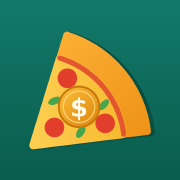
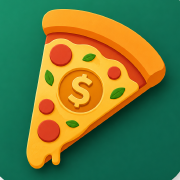
feat(web): usa o icone real do Fatia, rente a borda
- gera 512/192/180 e maskable a partir do PNG enviado
- recorta a moldura branca e o miolo do quadrado arredondado, para o
  icone ficar full-bleed (era a moldura que causava o 'fundo branco
  com icone pequeno' ao instalar no celular)
- remove o SVG desenhado a mao que servia de placeholder
- guarda o arquivo de origem fora de public (nao vai para o deploy)
- sobe o cache do service worker (fatia-v3)

diff --git a/apps/web/public/sw.js b/apps/web/public/sw.js
@@ -1,9 +1,9 @@
 // Service worker minimalista do Painel Financeiro Pessoal.
 // Estratégia: app shell em cache para abrir offline; assets com
 // stale-while-revalidate. Chamadas à API (outra origem) não são cacheadas.
-const CACHE = "fatia-v2";
+const CACHE = "fatia-v3";
 // Caminhos relativos ao escopo do service worker (funciona em subpasta do Pages).
-const APP_SHELL = ["./", "./manifest.webmanifest", "./icon.svg", "./icon-192.png", "./icon-512.png"];
+const APP_SHELL = ["./", "./manifest.webmanifest", "./icon-192.png", "./icon-512.png"];
 
 self.addEventListener("install", (event) => {
   event.waitUntil(

diff --git a/apps/web/index.html b/apps/web/index.html
@@ -9,7 +9,6 @@
     <!-- PWA -->
     <link rel="manifest" href="manifest.webmanifest" />
     <meta name="theme-color" content="#0f766e" />
-    <link rel="icon" type="image/svg+xml" href="icon.svg" />
     <link rel="icon" type="image/png" sizes="192x192" href="icon-192.png" />
     <link rel="apple-touch-icon" href="apple-touch-icon.png" />
     <meta name="apple-mobile-web-app-capable" content="yes" />
